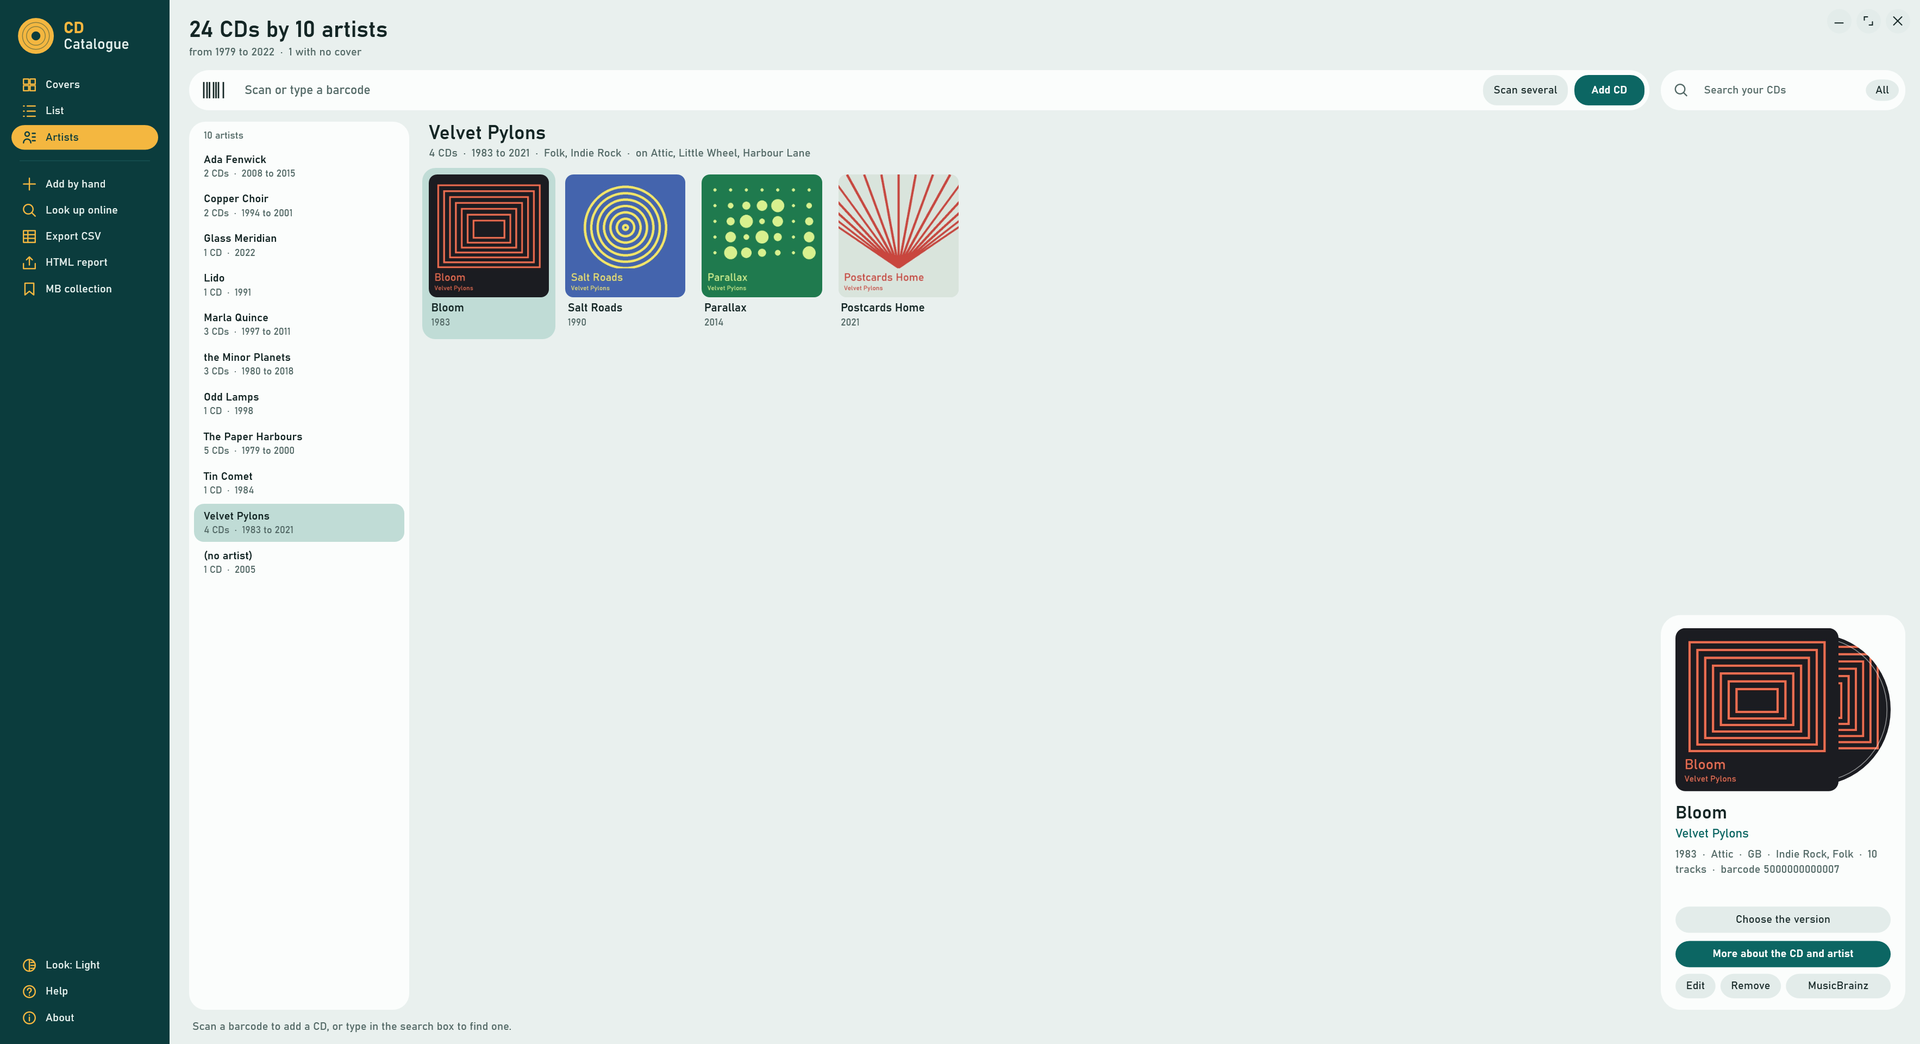
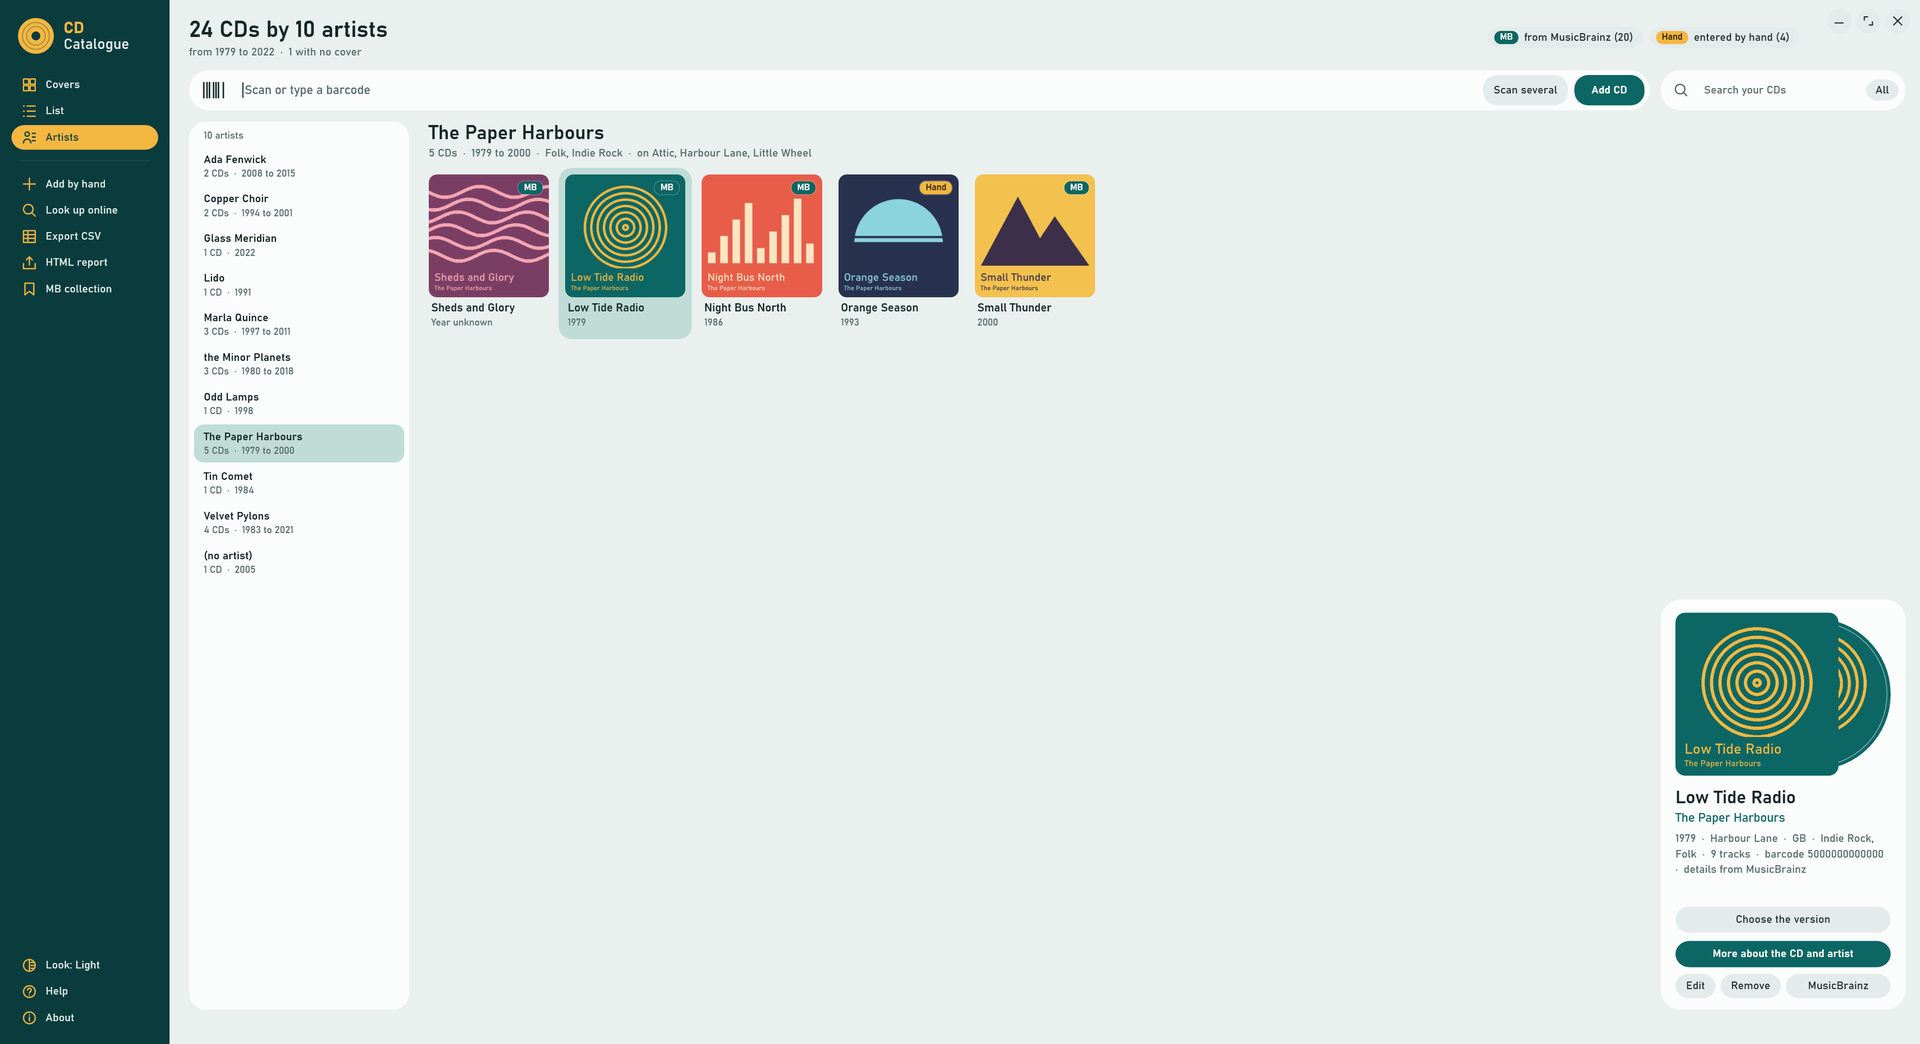
CD Catalogue v1.01: MB / Hand key, big covers on hover in the report
Every cover and list row is marked MB (details from MusicBrainz) or Hand (entered by hand). A key at
the top shows how many of each and filters to one kind when clicked; source:mb / source:hand work in
the search box. The details panel, a sortable From column, the CSV and the HTML report show it too.
In the HTML report, hovering over a cover shows it big, and hovering over an album shows its details.

diff --git a/README.md b/README.md
@@ -6,7 +6,7 @@
 
 A searchable list of your CDs, with artist, album, year and cover.
 
-![Version](https://img.shields.io/badge/version-v1.00-blue) ![Platform](https://img.shields.io/badge/platform-Windows-0078D6) ![PowerShell](https://img.shields.io/badge/PowerShell-5.1-5391FE) ![Licence](https://img.shields.io/badge/licence-MIT-green) ![Last commit](https://img.shields.io/github/last-commit/jason4bury/CD-Catalogue)
+![Version](https://img.shields.io/badge/version-v1.01-blue) ![Platform](https://img.shields.io/badge/platform-Windows-0078D6) ![PowerShell](https://img.shields.io/badge/PowerShell-5.1-5391FE) ![Licence](https://img.shields.io/badge/licence-MIT-green) ![Last commit](https://img.shields.io/github/last-commit/jason4bury/CD-Catalogue)
 
 
 ## ✨ Features
@@ -20,11 +20,12 @@ CD Catalogue is a PowerShell/WPF tool that keeps a searchable list of your physi
 - **MusicBrainz account (optional)**: look-ups never need one. With one, **Add to MusicBrainz** opens MusicBrainz's Add release page with a not-found CD's barcode filled in, and **MB collection** sends your CDs to a collection in your account (sign in once with an application you register in your MusicBrainz account; the sign-in is kept encrypted for your Windows account, and your password is never seen by the app).
 - **CDs with no barcode**: Add by hand, with Look up by artist and album.
 - **Artists, like a discography**: the **Artists** view lists every artist with how many CDs you have and the years they span; pick one to see all their albums together, oldest first, with their genres and labels.
+- **MB or Hand**: a mark on every cover and list row shows whether the CD's details came from MusicBrainz (**MB**) or were entered by hand (**Hand**). The key at the top shows how many of each; click one to show only those CDs. The CSV and HTML report say so too.
 - **Search by field**: search everything, or pick one thing with the button in the search box (artist, album, year, label, genre, barcode or notes). You can also type them and mix them, such as `year:1990-1999 label:"little wheel"`. A year can be one year, a range (1990-1999) or a decade (1990s).
 - **A wall of covers**: your collection as album art, or as a sortable list, in the app's own teal and amber look with its own window frame.
 - **More about the CD and artist**: the CD's track listing with times, when the album first came out, the pressing's label and catalogue number, format, genres and the album's Wikipedia introduction; beside it the artist: where they're from, when they formed or were born, genres, the band's members with their years, the Wikipedia introduction, and links to MusicBrainz, Wikipedia, Discogs and their own site. It's kept, so it opens at once next time.
 - **Export CSV**: saves the list (or what your search found) as a CSV file for Excel and other spreadsheets.
-- **HTML report**: saves it as a page with the covers, to open in any browser, print or share.
+- **HTML report**: saves it as a page with the covers, to open in any browser, print or share. Hover over a cover to see it bigger, or over an album for its details and tracks.
 - **Excel-safe CSV**: opens correctly with a double-click, with every barcode digit and titles such as 007 or 3/4 as typed. Such values are written as `="007"` in the file, which programs other than spreadsheets will show as they are.
 - Sort by any column in the list; the selected CD's sleeve, disc and details beside it; Edit, Remove, open the CD's MusicBrainz page, light and dark looks, Help and an About box.
 
@@ -46,7 +47,7 @@ CD Catalogue is a PowerShell/WPF tool that keeps a searchable list of your physi
 
 ## 📦 Installation
 
-1. Download `CD-Catalogue-v1.00.zip` from the [latest release](../../releases/latest) and unzip it wherever you like to keep it.
+1. Download `CD-Catalogue-v1.01.zip` from the [latest release](../../releases/latest) and unzip it wherever you like to keep it.
 2. Double-click **CD Catalogue.cmd** in the unzipped folder. It makes a **CD Catalogue** shortcut there and in the Start menu, and starts the tool. From then on, use the shortcut, the Start menu or a pinned taskbar button.
 
 Nothing is installed and no Windows settings are changed. The shortcut runs the script with PowerShell's execution policy bypassed for that run only.

diff --git a/CHANGELOG.md b/CHANGELOG.md
@@ -6,6 +6,18 @@ All notable changes to this project are documented here. The format follows
 
 ## [Unreleased]
 
+## [1.01] - 2026-11-23
+### Added
+- **MB or Hand**: every cover and list row has a mark showing where its details came from: **MB** (MusicBrainz,
+  scanned or found with Look up) or **Hand** (entered by hand). A key at the top shows how many of each, and
+  clicking one shows only those CDs (click again for all). `source:mb` and `source:hand` work in the search box.
+- The details panel says where the CD's details came from, the list has a sortable **From** column, and the CSV
+  and HTML report have a **Details from** / **From** column.
+- **HTML report**: hover over an album for a card with its details (and its tracks, once More about the CD and
+  artist has been opened for it).
+- **HTML report**: hover over a cover to see it big (300 px) beside the pointer. Covers are saved at that size
+  in the report, so it's a little larger than before.
+
 ## [1.00] - 2026-11-22
 First release.
 
